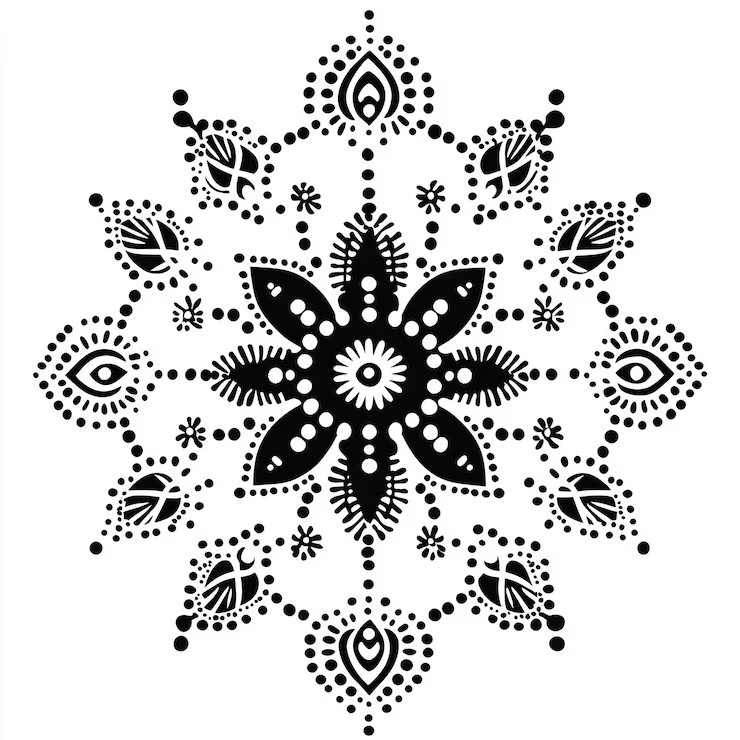
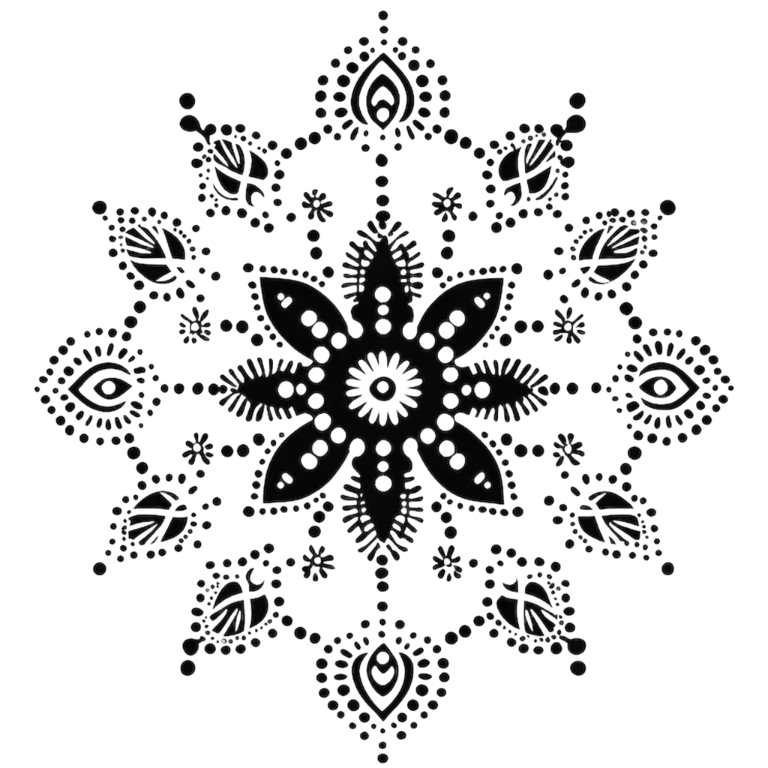
Replace experience mandala artwork

diff --git a/src/components/sections/about.tsx b/src/components/sections/about.tsx
@@ -85,8 +85,8 @@ export function About() {
           <Image
             src="/images/experience-mandala.png"
             alt=""
-            width={554}
-            height={554}
+            width={768}
+            height={768}
             className="absolute top-0 left-0 h-full w-auto max-w-none object-contain opacity-90 mix-blend-multiply dark:invert dark:mix-blend-screen"
           />
         </div>
